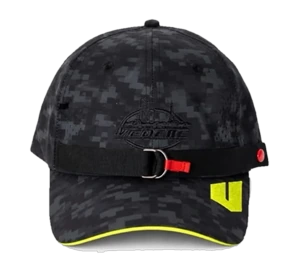
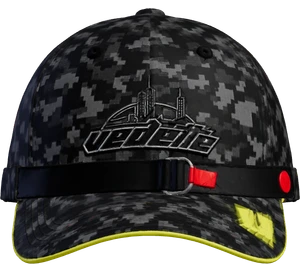
Remplace les vignettes du carrousel par des rendus 3D, pour les pièces scannées
Les vignettes étaient recadrées directement dans la photo du mur — un
recadrage attrape parfois le bord d'un objet voisin (visible sur la
casquette Vedette), et la qualité restait celle de la photo du mur, pas
celle du produit. Les 10 pièces qui ont maintenant un vrai scan 3D (sur
12) récupèrent une vignette rendue depuis leur modèle, même pipeline et
même éclairage que le sweat col V / le manches longues déjà traités —
cohérent avec ce qui tourne dans l'inspecteur. Seul le maillot rainbow,
sans modèle encore, garde son recadrage du mur.

Claude-Session: https://claude.ai/code/session_01JHKczBwFKYFofkfxCnLE6j

diff --git a/src/data/collection.ts b/src/data/collection.ts
@@ -248,8 +248,10 @@ export const categories: (Category | "TOUS")[] = [
 /** Only pieces whose packshot has landed can be lifted off the wall. */
 export const selectableItems = collection.filter((i) => i.front !== null);
 
-/** Carousel tile — cropped straight out of the wall still, so the rail always
- * mirrors what is actually hanging in the room. */
+/** Carousel tile. For a scanned piece it's rendered straight from the 3D
+ * model (same lighting rig as ModelStage), matching what actually turns in
+ * the inspector; a piece still waiting on its scan falls back to a crop of
+ * the wall still. */
 export function thumbFor(id: string) {
   return `/collection/thumbs/${id}.webp`;
 }
